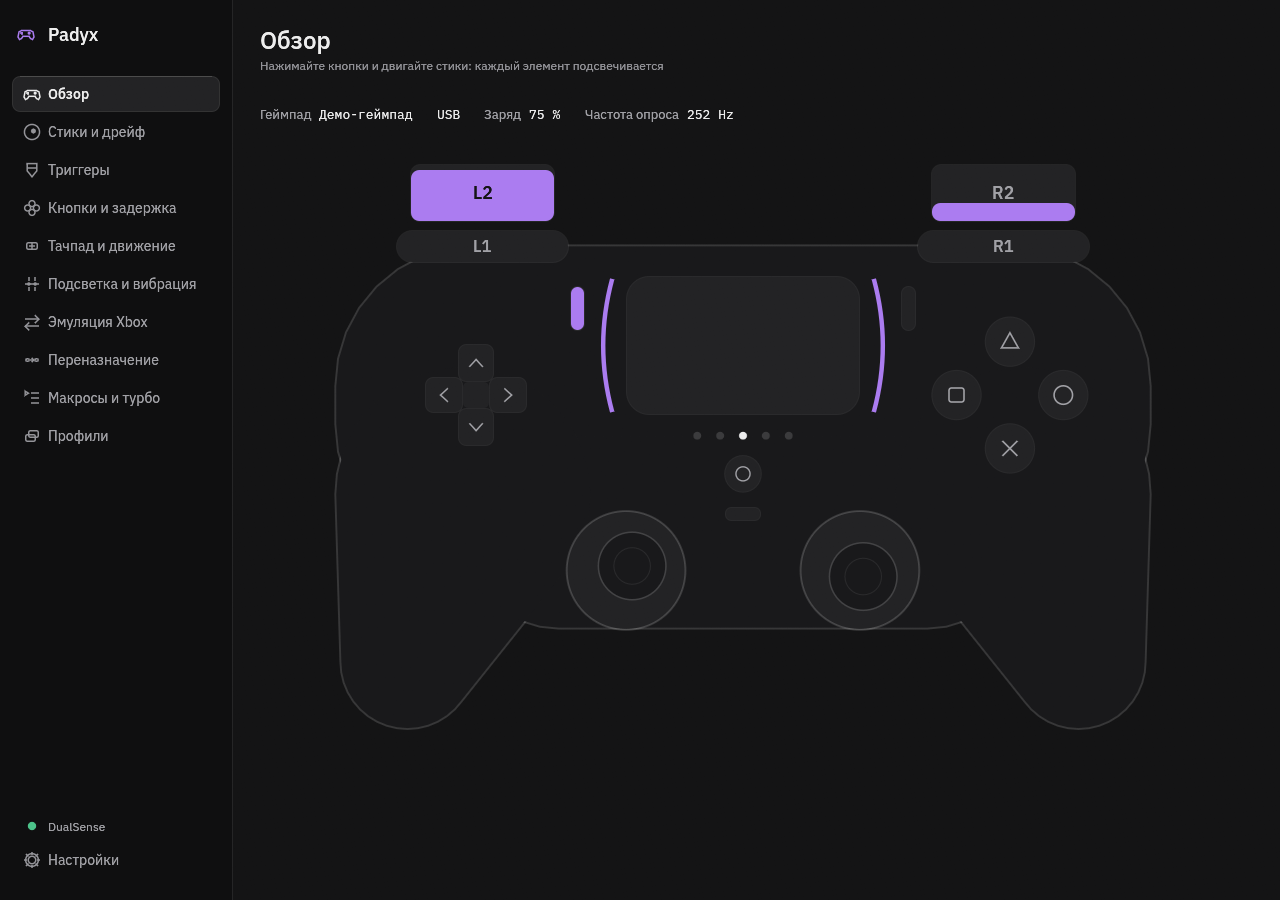
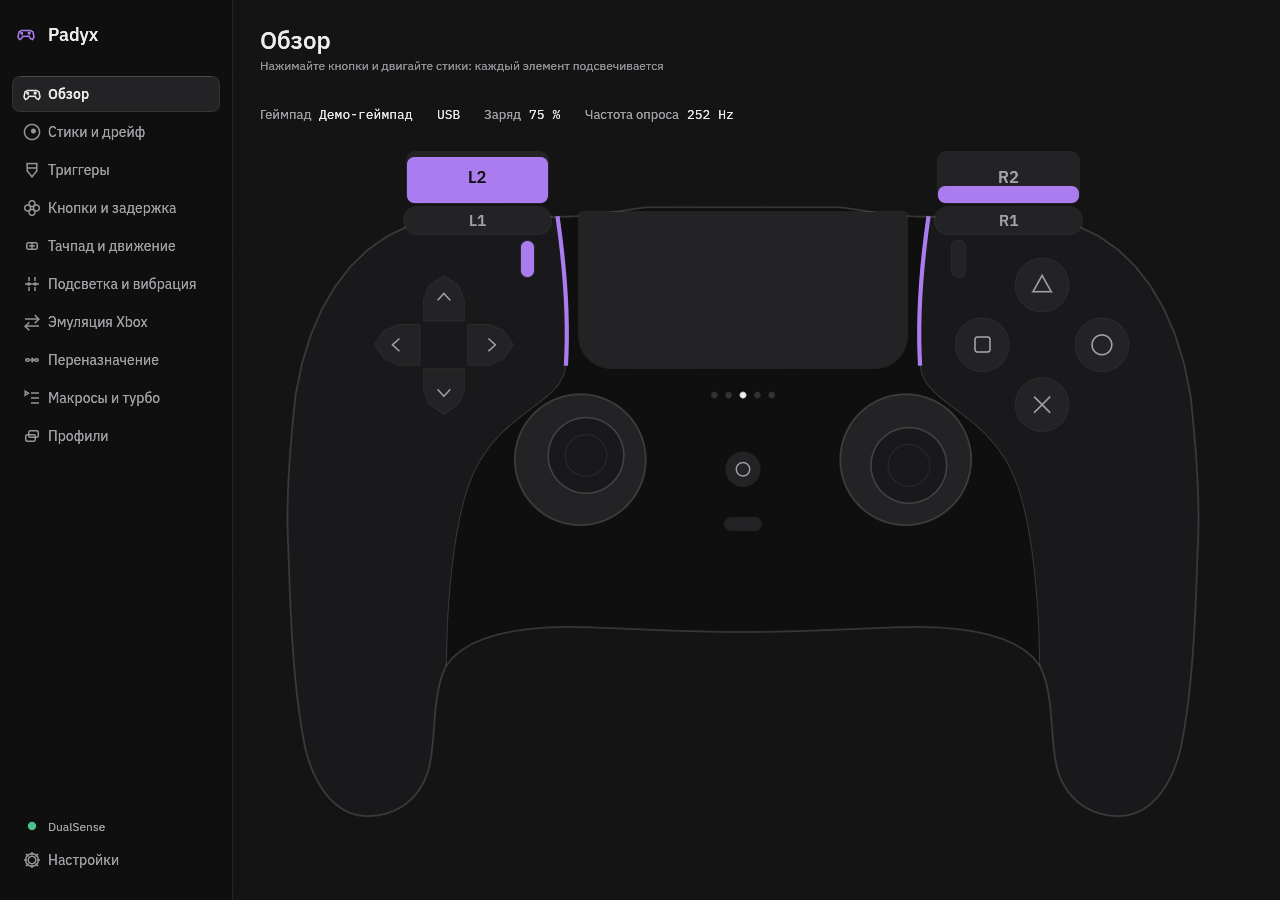
Padyx 1.0.1: redraw the pad as an accurate two-tone DualSense silhouette

diff --git a/src/app/draw.rs b/src/app/draw.rs
@@ -3,52 +3,119 @@
 
 use crate::pad::{stick_norm, Btn, Finger, PadSnapshot, TOUCH_H, TOUCH_W};
 use crate::theme::{self, Pal};
-use eframe::egui::{self, epaint::PathStroke, Color32, Painter, Pos2, Rect, Shape, Stroke, StrokeKind, Ui, pos2, vec2};
+use eframe::egui::{self, epaint::PathStroke, Color32, CornerRadius, Painter, Pos2, Rect, Shape, Stroke, StrokeKind, Ui, pos2, vec2};
+use std::sync::OnceLock;
 
-/// A rounded rectangle as a convex polygon, rotated by `deg` around its centre.
-fn rrect(c: (f32, f32), w: f32, h: f32, r: f32, deg: f32) -> Vec<(f32, f32)> {
-    let r = r.min(w / 2.0).min(h / 2.0);
-    let mut pts = Vec::new();
-    let corners = [(w / 2.0 - r, -h / 2.0 + r, -90.0f32), (w / 2.0 - r, h / 2.0 - r, 0.0), (-w / 2.0 + r, h / 2.0 - r, 90.0), (-w / 2.0 + r, -h / 2.0 + r, 180.0)];
-    for (cx, cy, a0) in corners {
-        for i in 0..=8 {
-            let a = (a0 + 90.0 * i as f32 / 8.0).to_radians();
-            pts.push((cx + r * a.cos(), cy + r * a.sin()));
-        }
+type P = (f32, f32);
+
+/// Appends a cubic Bezier from the last point of `v` (10 samples).
+fn cubic(v: &mut Vec<P>, p1: P, p2: P, p3: P) {
+    let p0 = *v.last().expect("a start point");
+    for i in 1..=10 {
+        let t = i as f32 / 10.0;
+        let u = 1.0 - t;
+        let (a, b, c, d) = (u * u * u, 3.0 * u * u * t, 3.0 * u * t * t, t * t * t);
+        v.push((a * p0.0 + b * p1.0 + c * p2.0 + d * p3.0, a * p0.1 + b * p1.1 + c * p2.1 + d * p3.1));
     }
-    let (s, co) = deg.to_radians().sin_cos();
-    pts.into_iter().map(|(x, y)| (c.0 + x * co - y * s, c.1 + x * s + y * co)).collect()
 }
 
-/// The convex hull of a point set (Andrew's monotone chain).
-fn hull(mut p: Vec<(f32, f32)>) -> Vec<(f32, f32)> {
-    p.sort_by(|a, b| a.partial_cmp(b).unwrap_or(std::cmp::Ordering::Equal));
-    let cross = |o: (f32, f32), a: (f32, f32), b: (f32, f32)| (a.0 - o.0) * (b.1 - o.1) - (a.1 - o.1) * (b.0 - o.0);
-    let mut h: Vec<(f32, f32)> = Vec::new();
-    for pass in 0..2 {
-        let start = h.len();
-        let it: Box<dyn Iterator<Item = &(f32, f32)>> = if pass == 0 { Box::new(p.iter()) } else { Box::new(p.iter().rev()) };
-        for &q in it {
-            while h.len() >= start + 2 && cross(h[h.len() - 2], h[h.len() - 1], q) <= 0.0 {
-                h.pop();
+/// A half outline (top centre to bottom centre, left side) made whole by mirroring it around x = 380.
+fn mirrored(half: &[P]) -> Vec<P> {
+    let mut v = half.to_vec();
+    v.extend(half[1..half.len() - 1].iter().rev().map(|&(x, y)| (760.0 - x, y)));
+    v
+}
+
+/// Ear clipping for a simple polygon (computed once, the shapes never change).
+fn triangulate(p: &[P]) -> Vec<[usize; 3]> {
+    let n = p.len();
+    let area: f32 = (0..n).map(|i| p[i].0 * p[(i + 1) % n].1 - p[(i + 1) % n].0 * p[i].1).sum();
+    let mut idx: Vec<usize> = if area > 0.0 { (0..n).collect() } else { (0..n).rev().collect() };
+    let cross = |a: P, b: P, c: P| (b.0 - a.0) * (c.1 - a.1) - (b.1 - a.1) * (c.0 - a.0);
+    let mut out = Vec::new();
+    while idx.len() > 3 {
+        let m = idx.len();
+        let mut cut = None;
+        for i in 0..m {
+            let (ia, ib, ic) = (idx[(i + m - 1) % m], idx[i], idx[(i + 1) % m]);
+            let (a, b, c) = (p[ia], p[ib], p[ic]);
+            if cross(a, b, c) <= 1e-6 {
+                continue;
             }
-            h.push(q);
+            let blocked = idx.iter().any(|&j| j != ia && j != ib && j != ic && cross(a, b, p[j]) >= 0.0 && cross(b, c, p[j]) >= 0.0 && cross(c, a, p[j]) >= 0.0);
+            if !blocked {
+                cut = Some(i);
+                out.push([ia, ib, ic]);
+                break;
+            }
         }
-        h.pop();
+        match cut {
+            Some(i) => {
+                idx.remove(i);
+            }
+            None => break,
+        }
     }
-    h
+    if idx.len() == 3 {
+        out.push([idx[0], idx[1], idx[2]]);
+    }
+    out
 }
 
-/// A grip: the hull of a big circle (where it joins the body) and a smaller one (the rounded end).
-fn grip(top: (f32, f32), r_top: f32, end: (f32, f32), r_end: f32) -> Vec<(f32, f32)> {
-    let mut pts = Vec::new();
-    for (c, r) in [(top, r_top), (end, r_end)] {
-        for i in 0..40 {
-            let a = i as f32 / 40.0 * std::f32::consts::TAU;
-            pts.push((c.0 + r * a.cos(), c.1 + r * a.sin()));
-        }
+/// The DualSense in a 768 x 576 box, as measured on a top-down product photo: a flat top with the touchpad
+/// jutting up, shoulders that round off, nearly straight sides into long grips with rounded tips, and a wide
+/// shallow U between them. The face is two-tone: the central plate and the two wings, with a seam between.
+struct Geo {
+    outline: Vec<P>,
+    outline_tris: Vec<[usize; 3]>,
+    plate: Vec<P>,
+    plate_tris: Vec<[usize; 3]>,
+    /// The left seam, from the top edge down to the inner edge of the grip.
+    seam: Vec<P>,
+}
+
+fn geo() -> &'static Geo {
+    static G: OnceLock<Geo> = OnceLock::new();
+    G.get_or_init(|| {
+        let mut top = vec![(380.0, 3.0), (300.0, 3.0)];
+        cubic(&mut top, (275.0, 6.0), (255.0, 11.0), (225.0, 11.0));
+        // The wing's outer edge, shoulder to grip tip and up the inner edge, then the bottom U.
+        let mut outer = top.clone();
+        outer.push((140.0, 11.0));
+        cubic(&mut outer, (70.0, 13.0), (20.0, 70.0), (6.0, 160.0));
+        cubic(&mut outer, (0.0, 215.0), (-2.0, 255.0), (0.0, 290.0));
+        cubic(&mut outer, (2.0, 350.0), (4.0, 405.0), (14.0, 455.0));
+        cubic(&mut outer, (22.0, 488.0), (40.0, 512.0), (66.0, 512.0));
+        cubic(&mut outer, (92.0, 512.0), (112.0, 496.0), (118.0, 470.0));
+        cubic(&mut outer, (124.0, 440.0), (120.0, 410.0), (132.0, 386.0));
+        let k = outer.len() - 1;
+        cubic(&mut outer, (148.0, 362.0), (190.0, 352.0), (250.0, 354.0));
+        cubic(&mut outer, (300.0, 356.0), (340.0, 358.0), (380.0, 358.0));
+        // The plate: the top, the seam, the same bottom.
+        let mut plate = top.clone();
+        let s0 = plate.len() - 1;
+        cubic(&mut plate, (232.0, 60.0), (234.0, 100.0), (232.0, 135.0));
+        cubic(&mut plate, (230.0, 165.0), (185.0, 172.0), (160.0, 215.0));
+        cubic(&mut plate, (142.0, 245.0), (136.0, 300.0), (133.0, 350.0));
+        plate.push((132.0, 386.0));
+        let s1 = plate.len() - 1;
+        plate.extend_from_slice(&outer[k + 1..]);
+        let seam = plate[s0..=s1].to_vec();
+        let outline = mirrored(&outer);
+        let plate = mirrored(&plate);
+        Geo { outline_tris: triangulate(&outline), plate_tris: triangulate(&plate), outline, plate, seam }
+    })
+}
+
+fn fill_mesh(painter: &Painter, m: &Map, pts: &[P], tris: &[[usize; 3]], col: Color32) {
+    let mut mesh = egui::Mesh::default();
+    for q in pts {
+        mesh.colored_vertex(m.pt(q.0, q.1), col);
     }
-    hull(pts)
+    for t in tris {
+        mesh.add_triangle(t[0] as u32, t[1] as u32, t[2] as u32);
+    }
+    painter.add(Shape::mesh(mesh));
 }
 
 /// Draws `text` centred in `r`, in `plain` colour where the fill (`filled`, a part of `r`) does not reach and in
@@ -74,19 +141,17 @@ struct Map {
 }
 
 impl Map {
+    /// Pad coordinates: x 0..760 (plus a margin), y from -44 (the triggers) to 512 (the grip tips).
     fn pt(&self, x: f32, y: f32) -> Pos2 {
-        self.o + vec2(x, y) * self.s
-    }
-    fn poly(&self, v: &[(f32, f32)]) -> Vec<Pos2> {
-        v.iter().map(|(x, y)| self.pt(*x, *y)).collect()
+        self.o + vec2(x + 4.0, y + 44.0) * self.s
     }
     fn rect(&self, x0: f32, y0: f32, x1: f32, y1: f32) -> Rect {
         Rect::from_min_max(self.pt(x0, y0), self.pt(x1, y1))
     }
 }
 
-pub const PAD_W: f32 = 760.0;
-pub const PAD_H: f32 = 470.0;
+pub const PAD_W: f32 = 768.0;
+pub const PAD_H: f32 = 560.0;
 
 /// Draws the controller in `rect`, as large as fits. Every control reflects the live state.
 pub fn dualsense(ui: &mut Ui, rect: Rect, pad: &PadSnapshot, p: &Pal) {
@@ -95,33 +160,29 @@ pub fn dualsense(ui: &mut Ui, rect: Rect, pad: &PadSnapshot, p: &Pal) {
     let s = (rect.width() / PAD_W).min(rect.height() / PAD_H);
     let o = rect.center() - vec2(PAD_W, PAD_H) * s / 2.0;
     let m = Map { o, s };
-    let line = Stroke::new((1.5 * s).max(1.0), p.line_hi);
     let hair = Stroke::new(1.0, p.line);
+    let g = geo();
 
-    // Body: outline first (every part stroked wide in the outline colour), then the fill on top, so the shape is
-    // one silhouette without inner seams.
-    // A DualSense: a wide soft body, a lower lobe for the sticks, and two grips that flare down and outwards with
-    // rounded ends.
-    let body = [
-        rrect((380.0, 200.0), 640.0, 250.0, 110.0, 0.0),
-        rrect((380.0, 300.0), 440.0, 150.0, 75.0, 0.0),
-        grip((160.0, 270.0), 100.0, (116.0, 402.0), 52.0),
-        grip((600.0, 270.0), 100.0, (644.0, 402.0), 52.0),
-    ];
-    for b in &body {
-        painter.add(Shape::convex_polygon(m.poly(b), p.line_hi, Stroke::new(3.0 * s.max(0.6), p.line_hi)));
+    // Body: the wings, the central plate on top, a hairline seam, then the silhouette outline.
+    let outline_pts: Vec<Pos2> = g.outline.iter().map(|q| m.pt(q.0, q.1)).collect();
+    fill_mesh(&painter, &m, &g.outline, &g.outline_tris, p.card);
+    fill_mesh(&painter, &m, &g.plate, &g.plate_tris, p.sidebar);
+    let seam_stroke = Stroke::new(1.0, p.line_hi);
+    for mirror in [false, true] {
+        let pts: Vec<Pos2> = g.seam.iter().map(|&(x, y)| m.pt(if mirror { 760.0 - x } else { x }, y)).collect();
+        painter.add(Shape::line(pts, PathStroke::new(seam_stroke.width, seam_stroke.color)));
     }
-    for b in &body {
-        painter.add(Shape::convex_polygon(m.poly(b), p.card, Stroke::NONE));
-    }
+    painter.add(Shape::closed_line(outline_pts, Stroke::new((1.5 * s).max(1.0), p.line_hi)));
 
     let on = |b: Btn| st.pressed(b);
     let fill_for = |pressed: bool| if pressed { p.accent } else { p.raised };
+    // Controls on the dark central plate need another shade than the ones on the wings.
+    let plate_for = |pressed: bool| if pressed { p.accent } else if p.dark { p.raised } else { p.card };
     let glyph_col = |pressed: bool| if pressed { p.on_accent } else { p.text2 };
 
     // Triggers (fill by value) and shoulder buttons.
-    for (x0, x1, v, click, name) in [(118.0, 232.0, st.trigger_l(), on(Btn::L2), "L2"), (528.0, 642.0, st.trigger_r(), on(Btn::R2), "R2")] {
-        let r = m.rect(x0, 10.0, x1, 56.0);
+    for (x0, x1, v, click, name) in [(98.0, 218.0, st.trigger_l(), on(Btn::L2), "L2"), (542.0, 662.0, st.trigger_r(), on(Btn::R2), "R2")] {
+        let r = m.rect(x0, -44.0, x1, 0.0);
         painter.rect(r, 8.0 * s, p.raised, if click { Stroke::new(1.5, p.accent) } else { hair }, StrokeKind::Inside);
         let h = r.height() * v;
         let mut filled = None;
@@ -132,19 +193,28 @@ pub fn dualsense(ui: &mut Ui, rect: Rect, pad: &PadSnapshot, p: &Pal) {
         }
         label(&painter, r, name, 14.0 * s, p.text2, p.on_accent, filled);
     }
-    for (cx, btn, name) in [(175.0, Btn::L1, "L1"), (585.0, Btn::R1, "R1")] {
-        let r = m.rect(cx - 68.0, 62.0, cx + 68.0, 88.0);
-        painter.rect(r, 13.0 * s, fill_for(on(btn)), hair, StrokeKind::Inside);
+    for (x0, x1, btn, name) in [(96.0, 220.0, Btn::L1, "L1"), (540.0, 664.0, Btn::R1, "R1")] {
+        let r = m.rect(x0, 2.0, x1, 26.0);
+        painter.rect(r, 12.0 * s, fill_for(on(btn)), hair, StrokeKind::Inside);
         label(&painter, r, name, 13.0 * s, p.text2, p.on_accent, if on(btn) { Some(r) } else { None });
     }
 
-    // D-pad.
-    let dc = (170.0, 192.0);
-    for (btn, dx, dy, w, h) in [(Btn::Up, 0.0, -25.0, 28.0, 30.0), (Btn::Down, 0.0, 25.0, 28.0, 30.0), (Btn::Left, -25.0, 0.0, 30.0, 28.0), (Btn::Right, 25.0, 0.0, 30.0, 28.0)] {
-        let r = Rect::from_center_size(m.pt(dc.0 + dx, dc.1 + dy), vec2(w, h) * s);
-        painter.rect(r, 6.0 * s, fill_for(on(btn)), hair, StrokeKind::Inside);
-        // a small arrow
-        let c = r.center();
+    // D-pad: four separate arrow-shaped pads.
+    let dc = (130.0, 118.0);
+    for (btn, ang) in [(Btn::Up, 0.0f32), (Btn::Right, 90.0), (Btn::Down, 180.0), (Btn::Left, 270.0)] {
+        let (sn, cs) = ang.to_radians().sin_cos();
+        // a pad pointing up, in its own frame, then turned and moved out from the centre
+        let rot = |x: f32, y: f32| (dc.0 + x * cs - y * sn, dc.1 + x * sn + y * cs);
+        let pts: Vec<Pos2> = [(-17.0, -20.0), (-17.0, -38.0), (-12.0, -50.0), (0.0, -58.0), (12.0, -50.0), (17.0, -38.0), (17.0, -20.0)]
+            .iter()
+            .map(|&(x, y)| {
+                let (a, b) = rot(x, y);
+                m.pt(a, b)
+            })
+            .collect();
+        painter.add(Shape::convex_polygon(pts, fill_for(on(btn)), hair));
+        let (cx, cy) = rot(0.0, -40.0);
+        let c = m.pt(cx, cy);
         let k = 5.0 * s;
         let (a, b, d) = match btn {
             Btn::Up => (c + vec2(-k, k * 0.5), c + vec2(0.0, -k * 0.6), c + vec2(k, k * 0.5)),
@@ -154,17 +224,16 @@ pub fn dualsense(ui: &mut Ui, rect: Rect, pad: &PadSnapshot, p: &Pal) {
         };
         painter.add(Shape::line(vec![a, b, d], PathStroke::new(1.5, glyph_col(on(btn)))));
     }
-    painter.rect_filled(Rect::from_center_size(m.pt(dc.0, dc.1), vec2(20.0, 20.0) * s), 4.0 * s, p.raised);
 
-    // Face buttons.
-    let fc = (590.0, 192.0);
-    for (btn, dx, dy) in [(Btn::Triangle, 0.0, -42.0), (Btn::Circle, 42.0, 0.0), (Btn::Cross, 0.0, 42.0), (Btn::Square, -42.0, 0.0)] {
+    // Face buttons: a diamond of round buttons.
+    let fc = (630.0, 118.0);
+    for (btn, dx, dy) in [(Btn::Triangle, 0.0, -50.0), (Btn::Circle, 50.0, 0.0), (Btn::Cross, 0.0, 50.0), (Btn::Square, -50.0, 0.0)] {
         let c = m.pt(fc.0 + dx, fc.1 + dy);
-        let r = 19.0 * s;
+        let r = 22.0 * s;
         painter.circle(c, r, fill_for(on(btn)), hair);
         let gc = glyph_col(on(btn));
         let gs = Stroke::new(1.6, gc);
-        let k = 7.0 * s;
+        let k = 8.0 * s;
         match btn {
             Btn::Triangle => {
                 painter.add(Shape::closed_line(vec![c + vec2(0.0, -k), c + vec2(k * 0.95, k * 0.7), c + vec2(-k * 0.95, k * 0.7)], gs));
@@ -182,19 +251,14 @@ pub fn dualsense(ui: &mut Ui, rect: Rect, pad: &PadSnapshot, p: &Pal) {
         }
     }
 
-    // Touchpad with the lightbar on both sides and the fingers.
-    let tp = m.rect(288.0, 98.0, 472.0, 208.0);
-    painter.rect(tp, 18.0 * s, fill_for(on(Btn::Touchpad)), hair, StrokeKind::Inside);
+    // Touchpad (juts up at the top), the light strips along the seam, the fingers, the player LEDs.
+    let tp = m.rect(242.0, 6.0, 518.0, 138.0);
+    let cr = CornerRadius { nw: (4.0 * s) as u8, ne: (4.0 * s) as u8, sw: (28.0 * s) as u8, se: (28.0 * s) as u8 };
+    painter.rect(tp, cr, plate_for(on(Btn::Touchpad)), hair, StrokeKind::Inside);
     let lc = pad.out.light_scaled();
     let lcol = Color32::from_rgb(lc[0], lc[1], lc[2]);
-    // The light strips follow the touchpad edges in a soft bow.
-    for (x0, bow) in [(277.0f32, -7.0f32), (483.0, 7.0)] {
-        let pts: Vec<Pos2> = (0..=16)
-            .map(|i| {
-                let t = i as f32 / 8.0 - 1.0;
-                m.pt(x0 + bow * (1.0 - t * t), 153.0 + 52.0 * t)
-            })
-            .collect();
+    for mirror in [false, true] {
+        let pts: Vec<Pos2> = g.seam[..=10].iter().map(|&(x, y)| m.pt(if mirror { 760.0 - x } else { x }, y)).collect();
         painter.add(Shape::line(pts, PathStroke::new(3.5 * s.max(0.7), lcol)));
     }
     for f in &st.touch {
@@ -205,26 +269,27 @@ pub fn dualsense(ui: &mut Ui, rect: Rect, pad: &PadSnapshot, p: &Pal) {
     }
     for i in 0..5 {
         let lit = pad.out.players & (1 << i) != 0;
-        painter.circle_filled(m.pt(344.0 + 18.0 * i as f32, 224.0), 3.0 * s.max(0.7), if lit { p.text } else { p.line_hi });
+        painter.circle_filled(m.pt(356.0 + 12.0 * i as f32, 160.0), 2.6 * s.max(0.7), if lit { p.text } else { p.line_hi });
     }
 
     // Create, Options, PS, Mute.
-    for (cx, btn) in [(250.0, Btn::Create), (510.0, Btn::Options)] {
-        painter.rect(m.rect(cx - 6.0, 106.0, cx + 6.0, 142.0), 6.0 * s, fill_for(on(btn)), hair, StrokeKind::Inside);
+    for (cx, btn) in [(200.0, Btn::Create), (560.0, Btn::Options)] {
+        painter.rect(m.rect(cx - 6.0, 30.0, cx + 6.0, 62.0), 6.0 * s, fill_for(on(btn)), hair, StrokeKind::Inside);
     }
-    painter.circle(m.pt(380.0, 254.0), 14.0 * s, fill_for(on(Btn::Ps)), hair);
-    painter.circle_stroke(m.pt(380.0, 254.0), 5.0 * s, Stroke::new(1.4, glyph_col(on(Btn::Ps))));
-    painter.rect(m.rect(366.0, 280.0, 394.0, 291.0), 5.0 * s, fill_for(on(Btn::Mute)), hair, StrokeKind::Inside);
+    painter.circle(m.pt(380.0, 222.0), 14.0 * s, plate_for(on(Btn::Ps)), hair);
+    painter.circle_stroke(m.pt(380.0, 222.0), 5.0 * s, Stroke::new(1.4, glyph_col(on(Btn::Ps))));
+    painter.rect(m.rect(364.0, 262.0, 396.0, 274.0), 6.0 * s, plate_for(on(Btn::Mute)), hair, StrokeKind::Inside);
 
-    // Sticks: a ring, a cap that follows the stick; the click (L3, R3) fills the cap.
-    for (cx, cy, raw, btn) in [(288.0, 330.0, (st.lx, st.ly), Btn::L3), (472.0, 330.0, (st.rx, st.ry), Btn::R3)] {
+    // Sticks, closer together than the face buttons: a ring, a cap that follows the stick; the click fills the cap.
+    let cap_idle = if p.dark { p.card } else { p.raised };
+    for (cx, cy, raw, btn) in [(244.0, 214.0, (st.lx, st.ly), Btn::L3), (516.0, 214.0, (st.rx, st.ry), Btn::R3)] {
         let c = m.pt(cx, cy);
-        painter.circle(c, 46.0 * s, p.raised, hair);
-        painter.circle_stroke(c, 46.0 * s, line);
+        painter.circle(c, 54.0 * s, plate_for(false), hair);
+        painter.circle_stroke(c, 54.0 * s, Stroke::new((1.5 * s).max(1.0), p.line_hi));
         let (x, y) = stick_norm(raw.0, raw.1);
         let cap = c + vec2(x, -y) * 20.0 * s;
-        painter.circle(cap, 26.0 * s, if on(btn) { p.accent } else { p.card }, Stroke::new(1.5, if on(btn) { p.accent } else { p.line_hi }));
-        painter.circle_stroke(cap, 14.0 * s, Stroke::new(1.0, if on(btn) { p.on_accent } else { p.line }));
+        painter.circle(cap, 31.0 * s, if on(btn) { p.accent } else { cap_idle }, Stroke::new(1.5, if on(btn) { p.accent } else { p.line_hi }));
+        painter.circle_stroke(cap, 17.0 * s, Stroke::new(1.0, if on(btn) { p.on_accent } else { p.line }));
     }
 }
 
